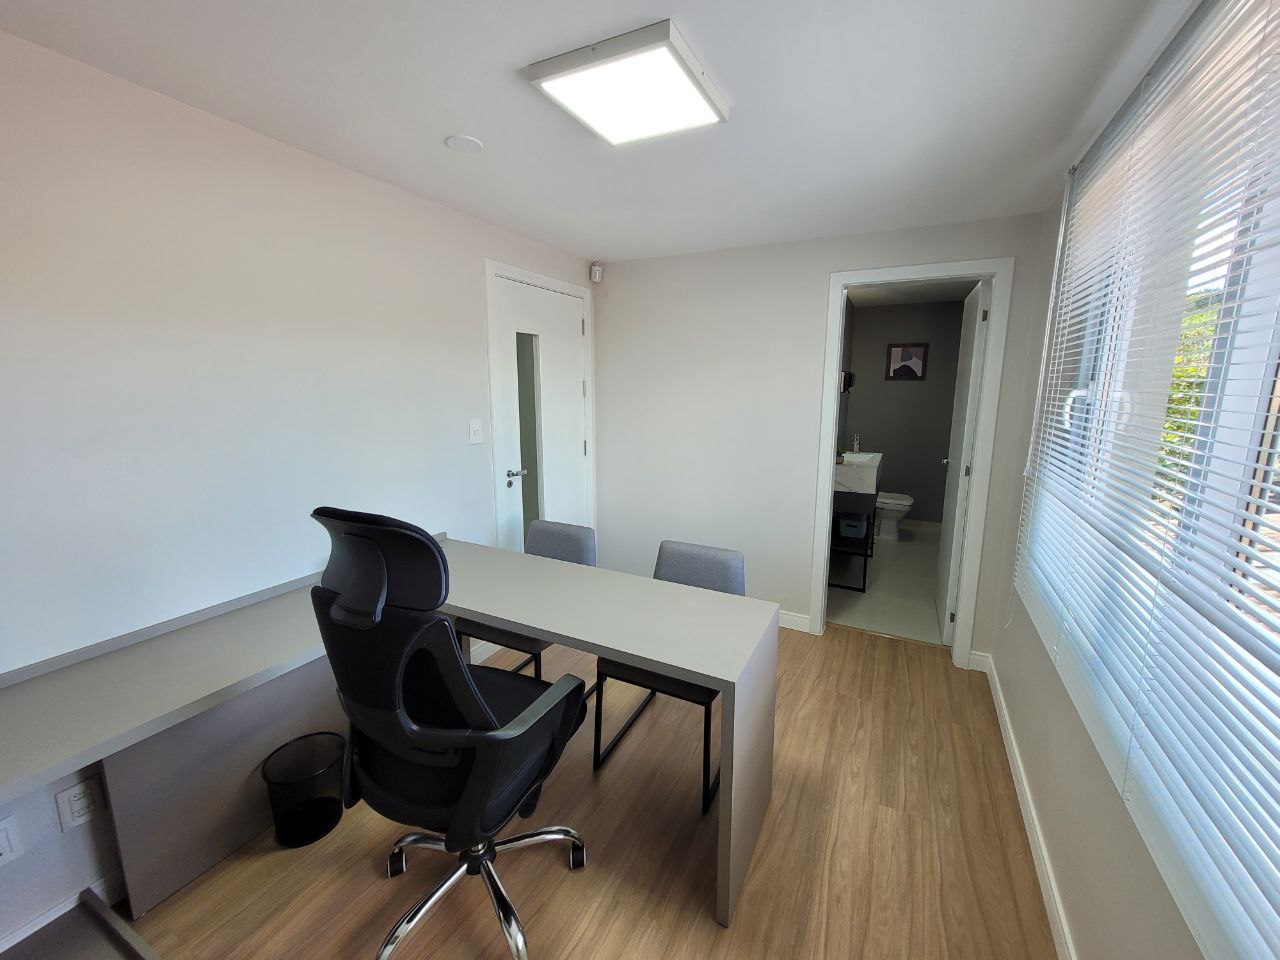
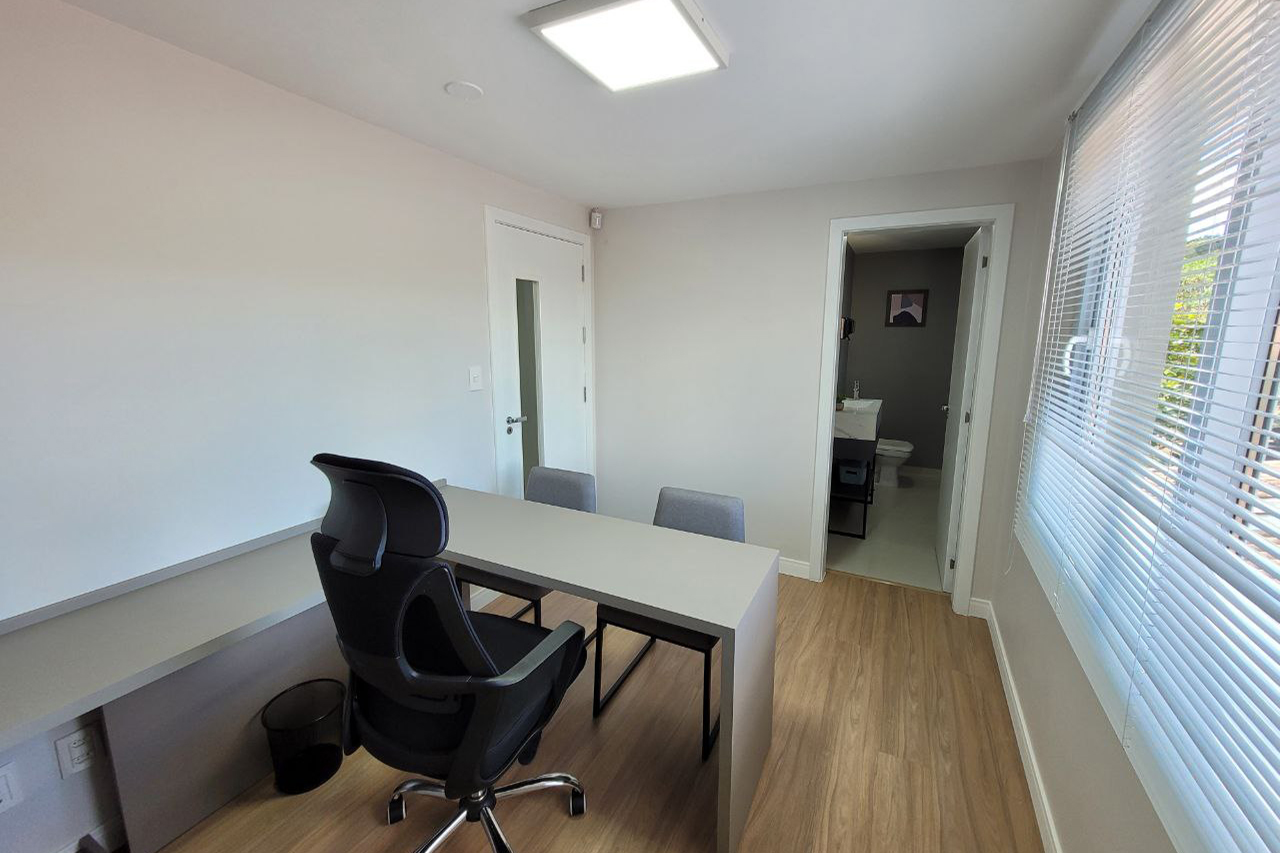
mais um

diff --git a/salas.html b/salas.html
@@ -40,8 +40,8 @@
             </div>
             <div class="box">
                 <div class="photos">
-                    <img loading="lazy" src="/assets/cwA/cw1.jfif" alt="">
-                    <img loading="lazy" src="/assets/cwA/cw2.jfif" alt="">
+                    <img loading="lazy" src="/assets/cwA/cw1.jpg" alt="">
+                    <img loading="lazy" src="/assets/cwA/cw22.jpg" alt="">
                     <img loading="lazy" src="/assets/cwA/cw3.jpg" alt="">
                     <img loading="lazy" src="/assets/cwA/cw4.jpg" alt="">
                 </div>
@@ -126,6 +126,39 @@
 
         </div>
     </section>
+
+    <!-- WHATSAPP BUTTON -->
+
+    <a href="https://api.whatsapp.com/send?phone=555135413593&text=olá" class="whatsapp-button" target="_blank"
+        style="position: fixed;  right: 15px; bottom: 15px;">
+        <img src="https://i.ibb.co/VgSspjY/whatsapp-button.png" alt="botão whatsapp">
+    </a>
+
+    <footer>
+        <div class="logo-footer">
+            <img src="/assets/Logo Sapiens.jpg" alt="">
+        </div>
+        <div class="footer-container">
+            <div class="inst">
+                <h3>Instutucional</h3>
+                <ul>
+                    <li><a href="#">Início</a></li>
+                    <li><a href="#cw">Nosso Espaço</a></li>
+                    <li><a href="#tcw">Coworking</a></li>
+                    <li><a href="#prices">Planos</a></li>
+                    <li><a href="#client-container">Clientes</a></li>
+                    <li><a href="/index.html">Sapiens</a></li>
+                </ul>
+            </div>
+            <div class="atend">
+                <h3>Atendimento</h3>
+                <ul>
+                    <li><a target="_blank"
+                            href="https://api.whatsapp.com/send?phone=555135413593&text=olá">(51)3541-3593</a></li>
+                </ul>
+            </div>
+        </div>
+    </footer>
 
 </body>
 

diff --git a/salas-style.css b/salas-style.css
@@ -67,6 +67,59 @@ nav a {
     width: 100%;
 }
 
+/* FOOTER */
+
+
+footer {
+    background-color: #22262F;
+    color: #fff;
+    padding: 20px;
+    display: flex;
+}
+
+.logo-footer {
+    width: 100%;
+    margin: auto;
+    text-align: center;
+}
+
+.logo-footer img {
+    max-width: 300px;
+    width: 100%;
+}
+
+.footer-container {
+    width: 100%;
+    display: flex;
+    justify-content: space-around;
+}
+
+.footer-container a {
+    text-decoration: none;
+    color: #fff;
+}
+
+.inst ul {
+    list-style: none;
+    margin: 10px;
+}
+
+
+.atend ul {
+    list-style: none;
+}
+
+.inst ul li {
+    list-style: none;
+    margin-top: 10px;
+}
+
+
+.atend ul li {
+    list-style: none;
+    margin-top: 10px;
+}
+
 
 @media screen and (max-width: 700px) {
     #esc1 .content {
@@ -109,5 +162,35 @@ nav a {
         max-width: 130px;
         width: 100%;
         margin: auto;
+    }
+
+    /* FOOTER */
+
+    footer {
+        background-color: #22262F;
+        color: #fff;
+        padding: 20px;
+        display: flex;
+        flex-wrap: wrap;
+    }
+
+    .logo-footer {
+        width: 100%;
+        margin: 10px auto;
+        text-align: center;
+    }
+
+    .footer-container {
+        width: 100%;
+        display: flex;
+        flex-wrap: wrap;
+    }
+
+    .inst {
+        margin: 10px;
+    }
+
+    .atend {
+        margin: 10px;
     }
 }

diff --git a/coworking-style.css b/coworking-style.css
@@ -431,8 +431,6 @@ footer {
         margin: 10px;
     }
 
-
-
 }
 
 @media screen and (max-width: 400px) {
